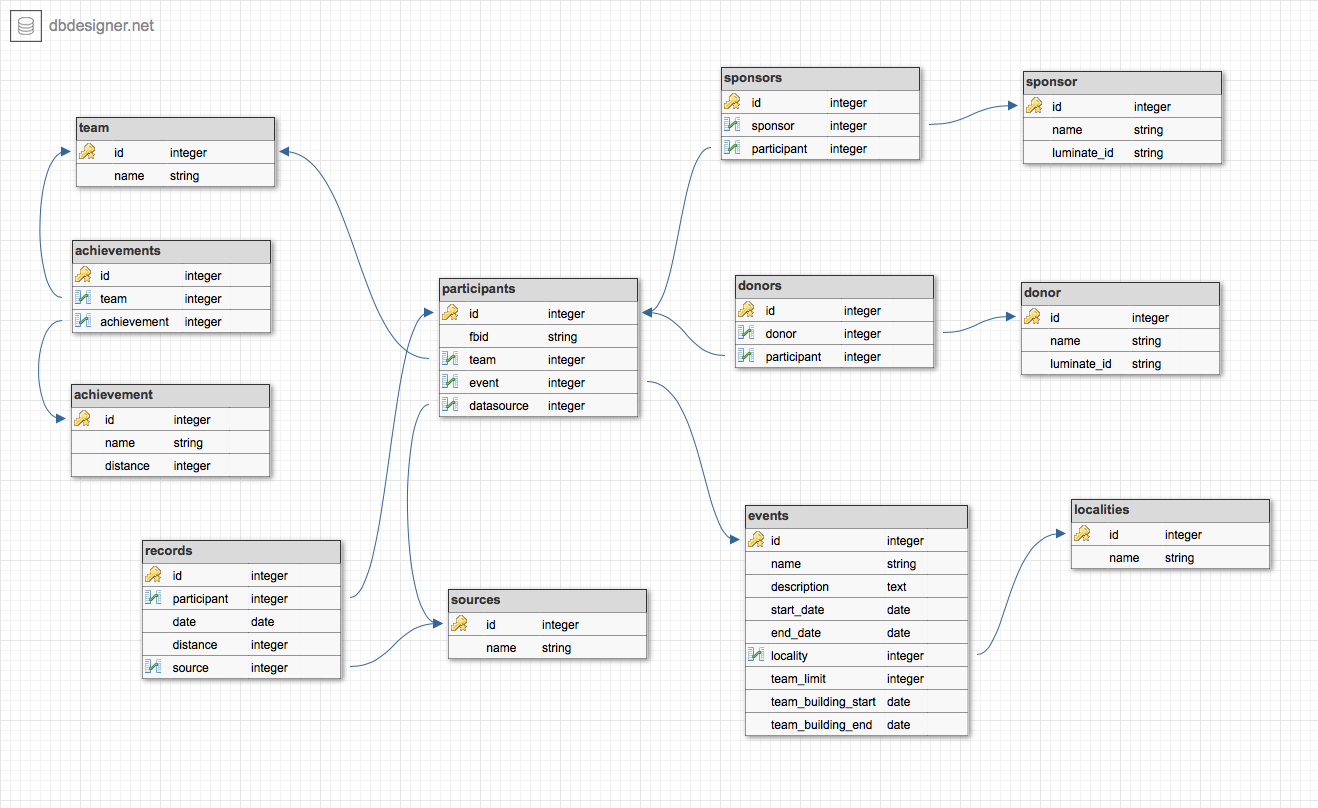
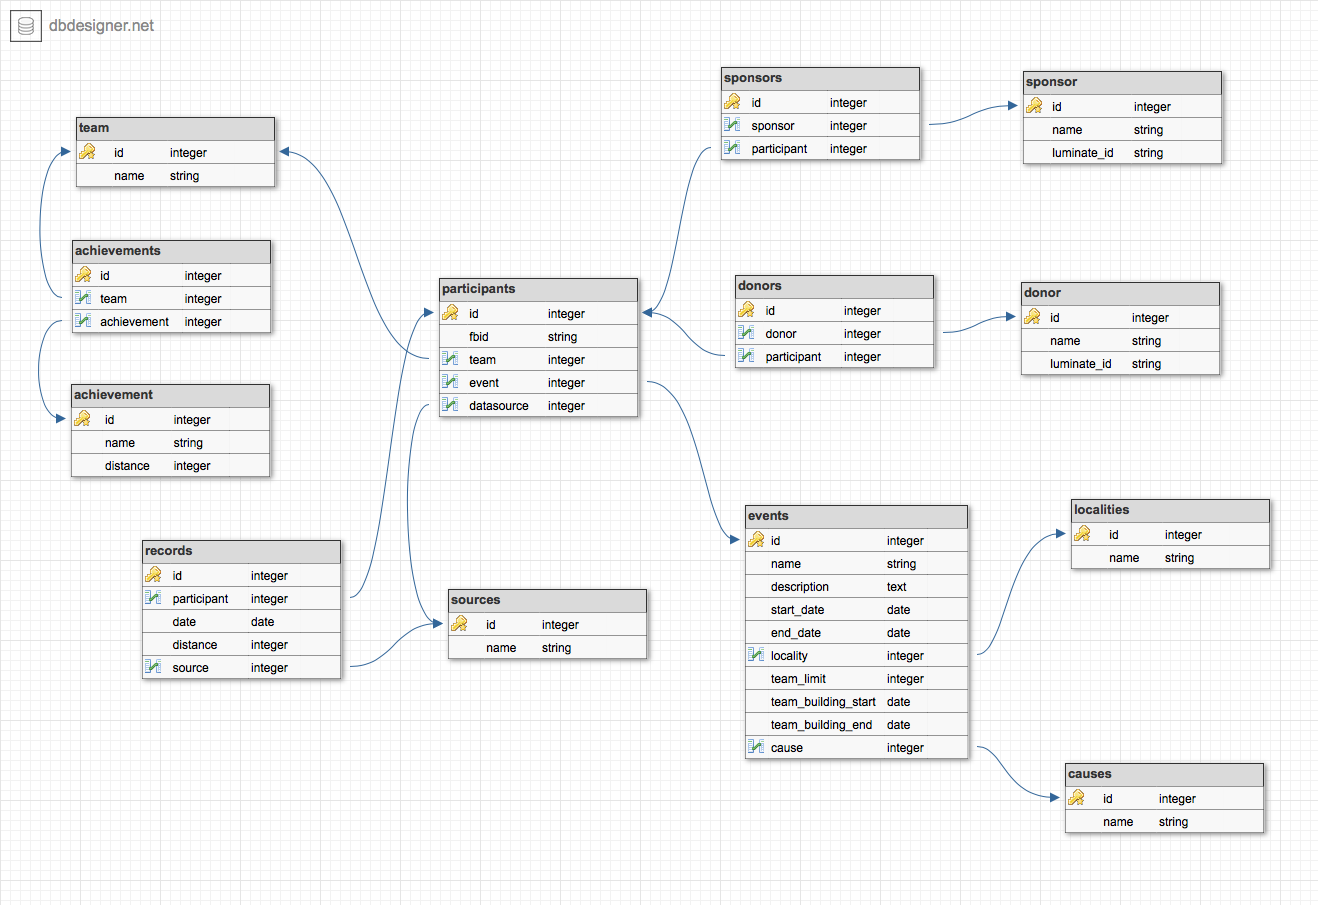
schema: add causes to events
We would like to allow users to select events supporting a particular
cause.

diff --git a/lib/models/events.js b/lib/models/events.js
@@ -41,6 +41,14 @@ module.exports = function (sequelize, DataTypes) {
     team_building_end: {
       type: DataTypes.DATE,
       allowNull: false
+    },
+    cause: {
+      type: DataTypes.INTEGER(11),
+      allowNull: false,
+      references: {
+        model: 'causes',
+        key: 'id'
+      }
     }
   }, {
     tableName: 'events'
